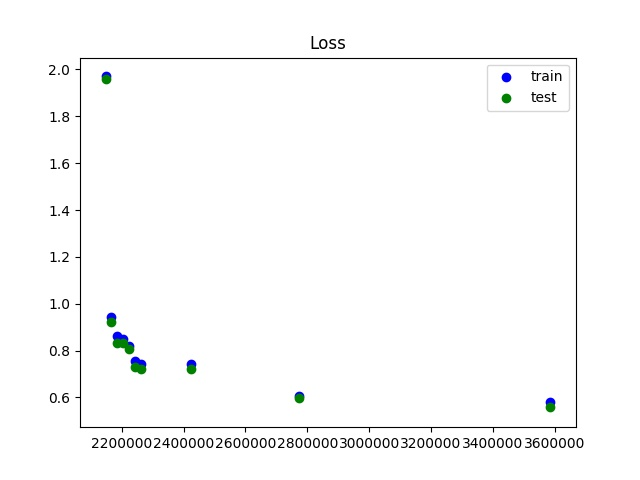
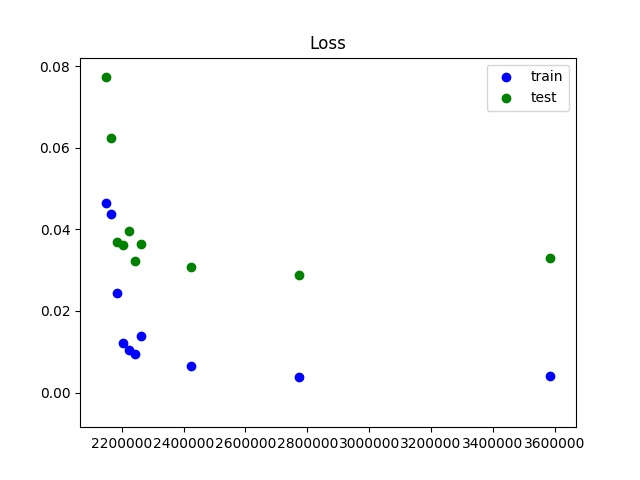
dkjf

diff --git a/hw1/1-3/1-3-2/train.py b/hw1/1-3/1-3-2/train.py
@@ -12,7 +12,7 @@ assert torch and nn and Variable and np
 #               setting option                             #
 ############################################################
 
-EPOCH = 1
+EPOCH = 30
 BATCH_SIZE =512*4
 
 parser = argparse.ArgumentParser(description='setting module parameter.')
